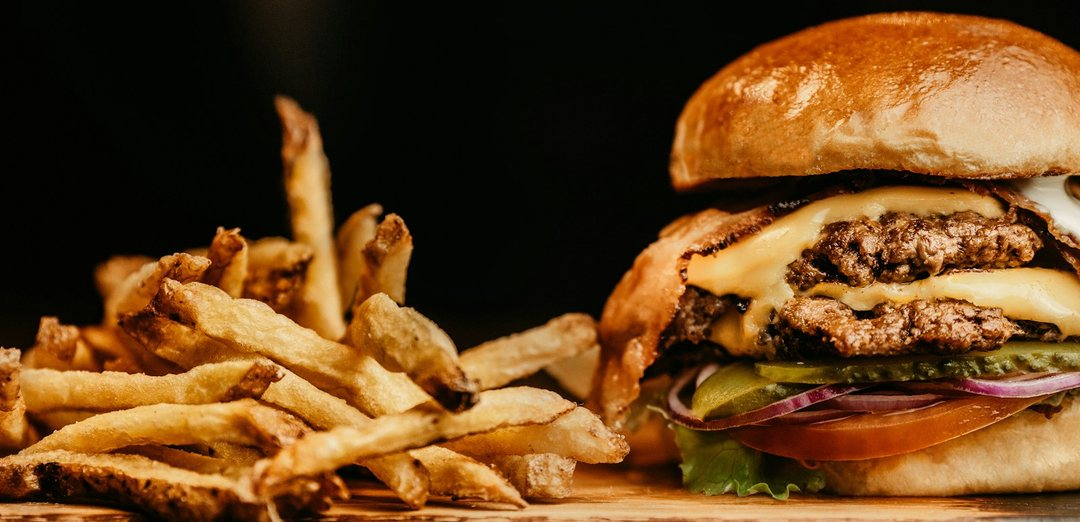
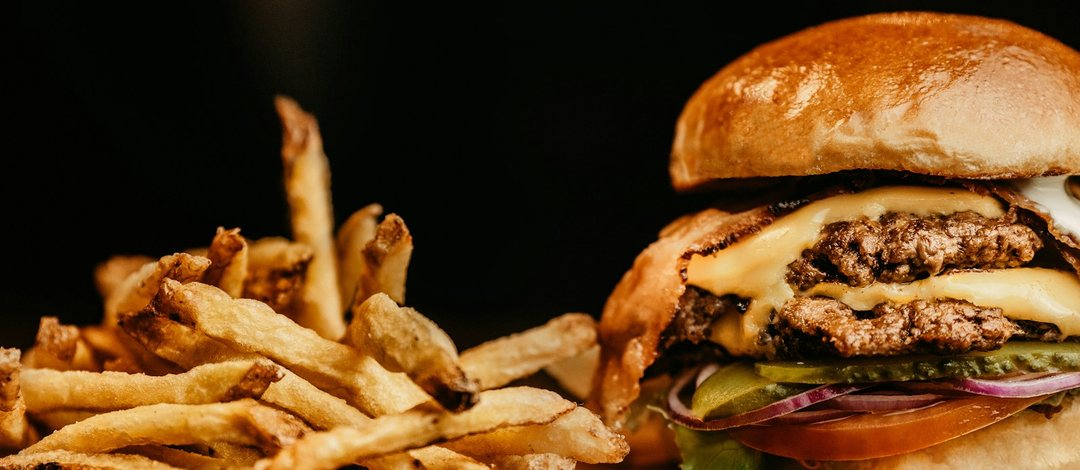
fyp/9: card photos framed like the FYP mockup, professional tab bar
Card photos:
- The Health and Shopping photos go back to the full-width FYP originals,
  cut to the card's 2.3:1 and centred, so each shows the whole scene: both
  doctors, both shoppers and the store.
- The image generator's logos (on the monitor and on a shirt) are painted
  out, not cropped around.
- The Food Court burger is re-cut to the same shape.

Tab bar:
- Ionicons pairs on every tab: an outline icon at rest, a filled icon in a
  soft accent pill when selected, with a bolder label.
- Customer: Home, Orders (receipt), Profile (person-circle).
- Providers: Store (storefront), Practice (medkit), Kitchen (restaurant).
- Admin: Approvals (shield-checkmark).
- 64 pt bar plus the safe area.

diff --git a/src/navigators/RouteTabs.tsx b/src/navigators/RouteTabs.tsx
@@ -1,21 +1,41 @@
 // ═══════════════════════════════════════════════════════
 // MetroMatrix — RouteTabs: a bottom-tab navigator from an ITabRoute[]
 // ═══════════════════════════════════════════════════════
-// Dumb mapper shared by the customer, partner and admin apps. Tints follow
-// the enclosing ServiceScope; labels use accentDeep (text contrast), icons
-// the same so a tab reads as one unit.
+// Dumb mapper shared by the customer, partner and admin apps. Each tab is an
+// Ionicons pair — outline at rest, filled when selected — and the selected
+// one sits in a soft pill of the enclosing ServiceScope's accent with a
+// bolder label, so the current tab reads at a glance. Labels use AppText, so
+// they honour the 130% dynamic-type cap.
 
 import React from 'react';
+import { StyleSheet, View } from 'react-native';
 import { createBottomTabNavigator } from '@react-navigation/bottom-tabs';
-import { useTheme } from '../theme';
-import { Icon } from '../Custom-Components/Icon';
+import { useSafeAreaInsets } from 'react-native-safe-area-context';
+import { useStyles, useTheme, type Theme } from '../theme';
+import { IonIcon } from '../Custom-Components/Icon';
 import { AppText } from '../Custom-Components/AppText';
 import type { ITabRoute } from '../navigations-maps/types';
 
 const Tab = createBottomTabNavigator();
 
+const makeStyles = ({ space, size, radius }: Theme) =>
+  StyleSheet.create({
+    pill: {
+      width: space.s56,
+      height: size.chevronWell,
+      borderRadius: radius.pill,
+      alignItems: 'center',
+      justifyContent: 'center',
+    },
+    item: { paddingTop: space.s8 },
+  });
+
 export const RouteTabs: React.FC<{ id: string; routes: ITabRoute[] }> = ({ id, routes }) => {
-  const { colors, service, size } = useTheme();
+  const styles = useStyles(makeStyles);
+  const { colors, service, size, space } = useTheme();
+  const insets = useSafeAreaInsets();
+  const bottom = Math.max(insets.bottom, space.s8);
+
   return (
     <Tab.Navigator
       id={id as never}
@@ -27,7 +47,10 @@ export const RouteTabs: React.FC<{ id: string; routes: ITabRoute[] }> = ({ id, r
           backgroundColor: colors.surface,
           borderTopColor: colors.line,
           borderTopWidth: size.hairline,
+          height: size.tabBar + bottom,
+          paddingBottom: bottom,
         },
+        tabBarItemStyle: styles.item,
         sceneStyle: { backgroundColor: colors.canvas },
       }}>
       {routes.map(route => (
@@ -36,14 +59,21 @@ export const RouteTabs: React.FC<{ id: string; routes: ITabRoute[] }> = ({ id, r
           name={route.title}
           component={route.component}
           options={{
-            // AppText, so tab labels honour the same 130% dynamic-type cap.
-            tabBarLabel: ({ color }) => (
-              <AppText variant="small" style={{ color }} numberOfLines={1}>
+            tabBarLabel: ({ focused, color }) => (
+              <AppText variant={focused ? 'chip' : 'caption'} style={{ color }} numberOfLines={1}>
                 {route.label}
               </AppText>
             ),
             tabBarAccessibilityLabel: route.label,
-            tabBarIcon: ({ color }) => <Icon name={route.icon} size="lg" color={color} />,
+            tabBarIcon: ({ focused }) => (
+              <View style={[styles.pill, focused && { backgroundColor: service.accentSoft }]}>
+                <IonIcon
+                  name={focused ? route.iconActive : route.icon}
+                  size="lg"
+                  color={focused ? service.accent : colors.inkMuted}
+                />
+              </View>
+            ),
           }}
         />
       ))}

diff --git a/src/navigations-maps/Auth.ts b/src/navigations-maps/Auth.ts
@@ -44,7 +44,9 @@ export const ONBOARDING_ROUTE: IRoute = {
 };
 
 /** Dev builds only: the design-system gallery (/dev/gallery on web). */
-const DEV_ROUTES: IRoute[] = __DEV__ ? [{ title: ROUTES.DESIGN_GALLERY, component: DesignGalleryScreen }] : [];
+const DEV_ROUTES: IRoute[] = __DEV__
+  ? [{ title: ROUTES.DESIGN_GALLERY, component: DesignGalleryScreen }]
+  : [];
 
 /** ── 1. Not authenticated ── */
 export const UNAUTHENTICATED_ROUTES: IRoute[] = [
@@ -53,7 +55,11 @@ export const UNAUTHENTICATED_ROUTES: IRoute[] = [
   { title: ROUTES.SIGN_IN, component: SignInScreen },
   { title: ROUTES.SIGN_UP, component: SignUpScreen, options: { animation: 'fade' } },
   { title: ROUTES.PROVIDER_SIGN_IN, component: ProviderSignInScreen },
-  { title: ROUTES.PROVIDER_SIGN_UP, component: ProviderSignUpScreen, options: { animation: 'fade' } },
+  {
+    title: ROUTES.PROVIDER_SIGN_UP,
+    component: ProviderSignUpScreen,
+    options: { animation: 'fade' },
+  },
   { title: ROUTES.FORGOT_PASSWORD, component: ForgotPasswordScreen },
   { title: ROUTES.RESET_PASSWORD_OTP, component: ResetPasswordOTPScreen },
   { title: ROUTES.RESET_PASSWORD, component: ResetPasswordScreen },
@@ -65,18 +71,30 @@ export const UNAUTHENTICATED_ROUTES: IRoute[] = [
 /** ── 2. Staff TOTP challenge (no tokens yet) ── */
 export const ADMIN_TOTP_ROUTES: IRoute[] = [
   { title: ROUTES.ADMIN_TOTP, component: AdminTotpScreen, options: { animation: 'none' } },
-  { title: ROUTES.ADMIN_TWO_FACTOR_ENROL, component: AdminTwoFactorEnrolScreen, options: { animation: 'none' } },
+  {
+    title: ROUTES.ADMIN_TWO_FACTOR_ENROL,
+    component: AdminTwoFactorEnrolScreen,
+    options: { animation: 'none' },
+  },
 ];
 
 /** ── 3. Email not verified ── */
 export const EMAIL_VERIFY_ROUTES: IRoute[] = [
-  { title: ROUTES.EMAIL_VERIFICATION, component: EmailVerificationScreen, options: { animation: 'none' } },
+  {
+    title: ROUTES.EMAIL_VERIFICATION,
+    component: EmailVerificationScreen,
+    options: { animation: 'none' },
+  },
   { title: ROUTES.VERIFY_SUCCESS, component: VerifySuccessScreen },
 ];
 
 /** ── 4. User, profile incomplete ── */
 export const COMPLETE_PROFILE_ROUTES: IRoute[] = [
-  { title: ROUTES.COMPLETE_PROFILE, component: CompleteProfileScreen, options: { animation: 'none' } },
+  {
+    title: ROUTES.COMPLETE_PROFILE,
+    component: CompleteProfileScreen,
+    options: { animation: 'none' },
+  },
 ];
 
 /** ── 5. Provider with no application, or a draft ── */
@@ -86,7 +104,11 @@ export const PARTNER_SETUP_ROUTES: IRoute[] = [
 
 /** ── 6. Submitted, awaiting approval ── */
 export const PENDING_ROUTES: IRoute[] = [
-  { title: ROUTES.PROVIDER_APPROVAL_PENDING, component: ProviderApprovalPendingScreen, options: { animation: 'none' } },
+  {
+    title: ROUTES.PROVIDER_APPROVAL_PENDING,
+    component: ProviderApprovalPendingScreen,
+    options: { animation: 'none' },
+  },
 ];
 
 /** ── 7. Rejected: the reason first, then Personal Info to resubmit ── */

diff --git a/src/navigations-maps/Partner.ts b/src/navigations-maps/Partner.ts
@@ -7,19 +7,43 @@ import { ROUTES } from './Base';
 import PartnerHomeScreen from '../screens/Partner/PartnerHome/PartnerHomeScreen';
 import AccountStack from '../navigators/stacks/AccountStack';
 
-const profileTab: ITabRoute = { title: ROUTES.PROFILE_TAB, component: AccountStack, label: 'Profile', icon: 'user' };
+const profileTab: ITabRoute = {
+  title: ROUTES.PROFILE_TAB,
+  component: AccountStack,
+  label: 'Profile',
+  icon: 'person-circle-outline',
+  iconActive: 'person-circle',
+};
 
 export const STORE_PARTNER_TAB_ROUTES: ITabRoute[] = [
-  { title: ROUTES.HOME_TAB, component: PartnerHomeScreen, label: 'Store', icon: 'shopping-bag' },
+  {
+    title: ROUTES.HOME_TAB,
+    component: PartnerHomeScreen,
+    label: 'Store',
+    icon: 'storefront-outline',
+    iconActive: 'storefront',
+  },
   profileTab,
 ];
 
 export const DOCTOR_PARTNER_TAB_ROUTES: ITabRoute[] = [
-  { title: ROUTES.HOME_TAB, component: PartnerHomeScreen, label: 'Practice', icon: 'heart' },
+  {
+    title: ROUTES.HOME_TAB,
+    component: PartnerHomeScreen,
+    label: 'Practice',
+    icon: 'medkit-outline',
+    iconActive: 'medkit',
+  },
   profileTab,
 ];
 
 export const KITCHEN_PARTNER_TAB_ROUTES: ITabRoute[] = [
-  { title: ROUTES.HOME_TAB, component: PartnerHomeScreen, label: 'Kitchen', icon: 'coffee' },
+  {
+    title: ROUTES.HOME_TAB,
+    component: PartnerHomeScreen,
+    label: 'Kitchen',
+    icon: 'restaurant-outline',
+    iconActive: 'restaurant',
+  },
   profileTab,
 ];

diff --git a/src/navigations-maps/Customer.ts b/src/navigations-maps/Customer.ts
@@ -8,7 +8,25 @@ import OrdersScreen from '../screens/Customer/Orders/OrdersScreen';
 import AccountStack from '../navigators/stacks/AccountStack';
 
 export const CUSTOMER_TAB_ROUTES: ITabRoute[] = [
-  { title: ROUTES.HOME_TAB, component: HomeStack, label: 'Home', icon: 'home' },
-  { title: ROUTES.ORDERS_TAB, component: OrdersScreen, label: 'Orders', icon: 'package' },
-  { title: ROUTES.PROFILE_TAB, component: AccountStack, label: 'Profile', icon: 'user' },
+  {
+    title: ROUTES.HOME_TAB,
+    component: HomeStack,
+    label: 'Home',
+    icon: 'home-outline',
+    iconActive: 'home',
+  },
+  {
+    title: ROUTES.ORDERS_TAB,
+    component: OrdersScreen,
+    label: 'Orders',
+    icon: 'receipt-outline',
+    iconActive: 'receipt',
+  },
+  {
+    title: ROUTES.PROFILE_TAB,
+    component: AccountStack,
+    label: 'Profile',
+    icon: 'person-circle-outline',
+    iconActive: 'person-circle',
+  },
 ];

diff --git a/src/navigations-maps/types.ts b/src/navigations-maps/types.ts
@@ -6,7 +6,7 @@
 
 import type React from 'react';
 import type { NativeStackNavigationOptions } from '@react-navigation/native-stack';
-import type { IconName } from '../Custom-Components/Icon';
+import type { IonName } from '../Custom-Components/Icon';
 
 export interface IRoute {
   /** Route name — must never change (deep links + navigate() strings). */
@@ -17,10 +17,11 @@ export interface IRoute {
   initialParams?: Record<string, unknown>;
 }
 
-/** A bottom tab: its route, label and Feather glyph. */
+/** A bottom tab: its route, label and Ionicons pair — outline at rest, filled when selected. */
 export interface ITabRoute {
   title: string;
   component: React.ComponentType<any>;
   label: string;
-  icon: IconName;
+  icon: IonName;
+  iconActive: IonName;
 }

diff --git a/src/navigations-maps/Admin.ts b/src/navigations-maps/Admin.ts
@@ -7,6 +7,18 @@ import AdminStack from '../navigators/stacks/AdminStack';
 import AccountStack from '../navigators/stacks/AccountStack';
 
 export const ADMIN_TAB_ROUTES: ITabRoute[] = [
-  { title: ROUTES.APPROVALS_TAB, component: AdminStack, label: 'Approvals', icon: 'check-square' },
-  { title: ROUTES.PROFILE_TAB, component: AccountStack, label: 'Profile', icon: 'user' },
+  {
+    title: ROUTES.APPROVALS_TAB,
+    component: AdminStack,
+    label: 'Approvals',
+    icon: 'shield-checkmark-outline',
+    iconActive: 'shield-checkmark',
+  },
+  {
+    title: ROUTES.PROFILE_TAB,
+    component: AccountStack,
+    label: 'Profile',
+    icon: 'person-circle-outline',
+    iconActive: 'person-circle',
+  },
 ];

diff --git a/src/components/home/ServiceCard.tsx b/src/components/home/ServiceCard.tsx
@@ -110,7 +110,6 @@ const Card: React.FC<{ data: ServiceCardData; onPress: () => void }> = ({ data, 
                   source={data.image}
                   style={styles.photo}
                   contentFit="cover"
-                  contentPosition="top"
                   transition={motion.press.duration}
                 />
                 <PhotoScrim />

diff --git a/src/navigations-maps/Base.ts b/src/navigations-maps/Base.ts
@@ -54,4 +54,4 @@ export const ROUTES = {
   DESIGN_GALLERY: 'DesignGallery',
 } as const;
 
-export type RouteName = typeof ROUTES[keyof typeof ROUTES];
+export type RouteName = (typeof ROUTES)[keyof typeof ROUTES];

diff --git a/assets/images/services/CREDITS.md b/assets/images/services/CREDITS.md
@@ -2,6 +2,6 @@
 
 | File | Source | Licence |
 |---|---|---|
-| `food.jpg` | "burger with fries" by Jonathan Borba — https://unsplash.com/photos/burger-with-fries-8l8Yl2ruUsg | Unsplash License (free for commercial use, no attribution required; credited as a courtesy). Cropped to a 1080 px wide band. |
-| `healthcare.jpg` | MetroMatrix FYP app (`assets/images/services/Health.png`) | The project's own asset. Cropped clear of the image generator's marks. |
-| `shopping.jpg` | MetroMatrix FYP app (`assets/images/services/Shopping.png`) | The project's own asset. Cropped clear of the image generator's marks. |
+| `food.jpg` | "burger with fries" by Jonathan Borba — https://unsplash.com/photos/burger-with-fries-8l8Yl2ruUsg | Unsplash License (free for commercial use, no attribution required; credited as a courtesy). Full-width band at the card's 2.3:1, 1080 px wide. |
+| `healthcare.jpg` | MetroMatrix FYP app (`assets/images/services/Health.png`) | The project's own asset. The image generator's logo on the monitor was painted out; full-width band at the card's 2.3:1. |
+| `shopping.jpg` | MetroMatrix FYP app (`assets/images/services/Shopping.png`) | The project's own asset. A small generator mark on a shirt was painted out; full-width band at the card's 2.3:1. |
